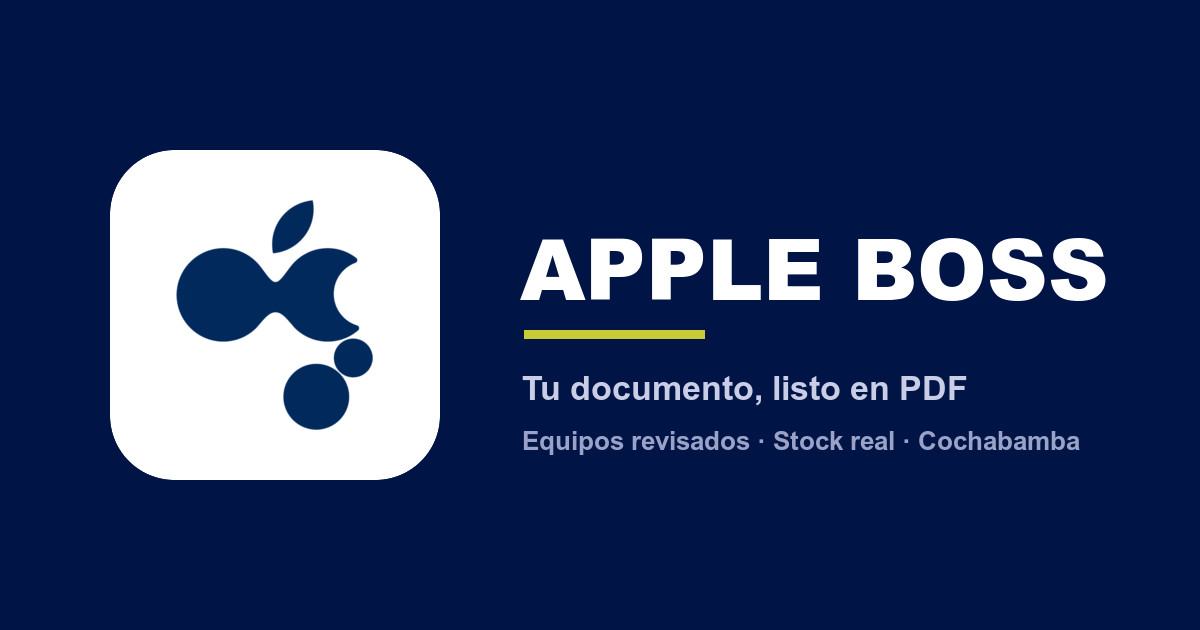
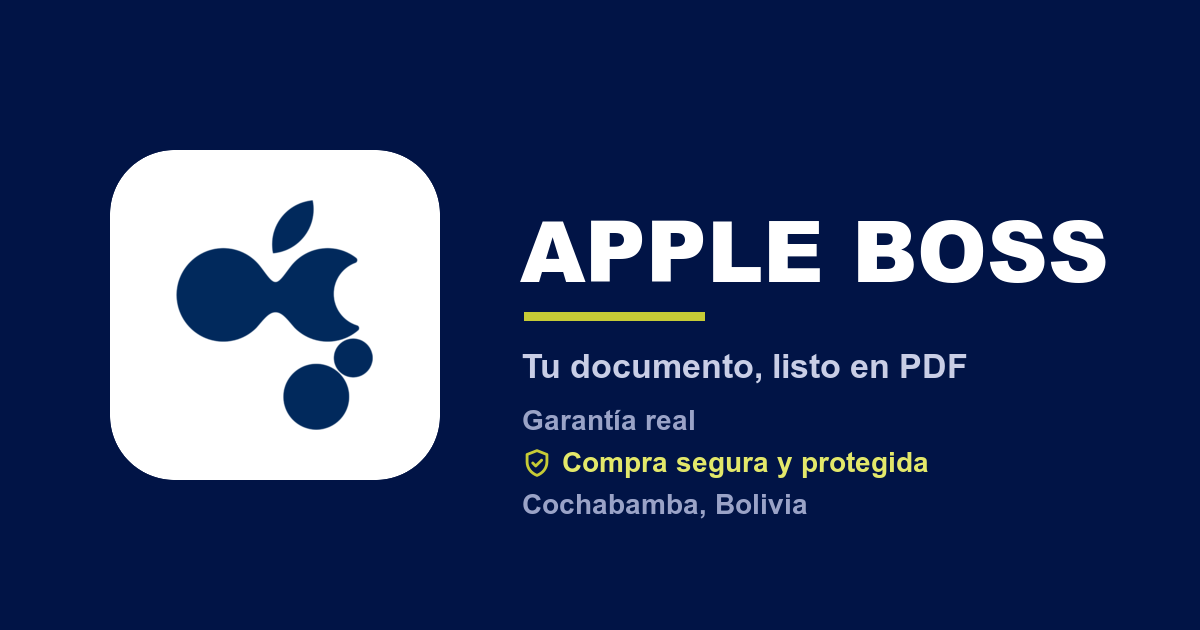
feat(marca): lema «Garantía real · Compra segura y protegida · Cochabamba, Bolivia» en toda la tienda
- Un solo lugar (config seo.negocio.lema, en tres partes): barra de anuncio, pie de la tienda, cabecera de los
  correos, página de documentos, tarjeta de WhatsApp y slogan del JSON-LD. «Compra segura y protegida» lleva el
  escudo de seguridad: SVG en la web y escudo.png en los correos (Gmail no muestra SVG).
- Las descripciones cuentan lo que distingue a la tienda: buen precio, asesoría en cada paso y una postventa que
  responde (portada, Google, Nosotros, categoría iPhone y la franja de confianza del inicio).
- Migración lema_de_la_tienda: cambia solo los textos que siguen con el valor de fábrica; reversible.
- LemaDeLaTiendaTest: el lema llega a la tienda, los correos y Google, y el genérico no vuelve al código.

Changed region(s): [[0.4317, 0.3317, 0.925, 0.754], [0.4317, 0.7841, 0.6783, 0.8143]]

diff --git a/src/resources/js/Layouts/StoreLayout.jsx b/src/resources/js/Layouts/StoreLayout.jsx
@@ -1,5 +1,5 @@
 import { Link, router, usePage } from '@inertiajs/react';
-import { Check, ChevronDown, ChevronRight, Exchange, GitCompare, Mail, Menu, Search, ShoppingBag, Trash2, Wrench, X } from '@/Components/Store/Icons';
+import { Check, ChevronDown, ChevronRight, Exchange, GitCompare, Mail, Menu, Search, ShieldCheck, ShoppingBag, Trash2, Wrench, X } from '@/Components/Store/Icons';
 import { Fragment, createContext, useCallback, useContext, useEffect, useMemo, useRef, useState } from 'react';
 import ProductVisual from '@/Components/Store/ProductVisual';
 import SearchOverlay from '@/Components/Store/SearchOverlay';
@@ -906,7 +906,19 @@ function StoreFooter({ abrirAcceso }) {
                 {/* En el celular, todo centrado y la firma al final; en la computadora, una línea con la firma a la derecha */}
                 <StoreContainer className="flex flex-col items-center gap-2 py-3 text-center text-xs font-medium text-white lg:flex-row lg:justify-between lg:gap-6 lg:text-left">
                     <span>Copyright © {year} {nombre} · Todos los derechos reservados</span>
-                    <span>Equipos revisados · Precios reales · Atención personalizada</span>
+                    {Array.isArray(tienda?.lema) && (
+                        <span className="inline-flex flex-wrap items-center justify-center gap-x-2 gap-y-1">
+                            {tienda.lema.map((parte, i) => (
+                                <Fragment key={parte.texto}>
+                                    {i > 0 && <span aria-hidden="true">·</span>}
+                                    <span className="inline-flex items-center gap-1">
+                                        {parte.escudo && <ShieldCheck size={14} strokeWidth={2} color="#C6CB36" aria-hidden="true" />}
+                                        {parte.texto}
+                                    </span>
+                                </Fragment>
+                            ))}
+                        </span>
+                    )}
                     <CreditoBurrow />
                 </StoreContainer>
             </div>

diff --git a/src/resources/js/Pages/Store/Home.jsx b/src/resources/js/Pages/Store/Home.jsx
@@ -1,7 +1,7 @@
 import { Head, Link, usePage } from '@inertiajs/react';
 import {
     ArrowRight, BadgeCheck, ChevronDown, Exchange,
-    MapPin, MessageCircle, Scan, ShieldCheck, Smartphone, Watch,
+    MapPin, MessageCircle, Scan, ShieldCheck, Smartphone, Watch, Wrench,
 } from '@/Components/Store/Icons';
 import { useState } from 'react';
 import { motion } from 'framer-motion';
@@ -80,8 +80,9 @@ function TrustBar() {
     return (
         <TrustMarquee items={[
             { icon: ShieldCheck,   text: 'Revisados antes de entregarte' },
-            { icon: MessageCircle, text: 'Atención directa, sin bots' },
-            { icon: BadgeCheck,    text: 'Precios reales, sin letra chica' },
+            { icon: BadgeCheck,    text: 'Buen precio, sin letra chica' },
+            { icon: MessageCircle, text: 'Te asesoramos en cada paso, sin bots' },
+            { icon: Wrench,        text: 'Postventa que responde después de la compra' },
             { icon: Scan,          text: 'Condición explícita en cada equipo' },
             { icon: Exchange,      text: 'Tu equipo actual como parte de pago' },
             // Solo con un local cargado en Tienda online → Ubicaciones

diff --git a/src/database/migrations/2026_10_19_200000_lema_de_la_tienda.php b/src/database/migrations/2026_10_19_200000_lema_de_la_tienda.php
@@ -1,0 +1,95 @@
+<?php
+
+use Illuminate\Database\Migrations\Migration;
+use Illuminate\Support\Facades\DB;
+
+/**
+ * El lema genérico («Equipos revisados · Stock real…», «Precios reales · Atención personalizada») deja paso al que eligió
+ * el dueño: «Garantía real · Compra segura y protegida · Cochabamba, Bolivia» (barra de anuncio). Las descripciones cuentan
+ * lo que distingue a la tienda: buen precio, asesoría en cada paso y una postventa que responde. Solo se cambia un texto
+ * que sigue exactamente como lo dejó la instalación o una migración: lo que el dueño editó en el panel queda como está.
+ */
+return new class extends Migration
+{
+    private const CAMBIOS = [
+        ['configuracion_tienda', 'valor', ['clave' => 'anuncio_barra'],
+            'Equipos revisados · Stock real · Atención en Bolivia',
+            'Garantía real · Compra segura y protegida · Cochabamba, Bolivia'],
+        ['configuracion_tienda', 'valor', ['clave' => 'seo_descripcion_default'],
+            'iPhone, Mac, iPad y accesorios Apple en Cochabamba, Bolivia. Equipos revisados y atención personalizada.',
+            'iPhone, Mac, iPad y accesorios Apple en Cochabamba, Bolivia. Buen precio, asesoría en cada paso y una postventa que responde.'],
+        ['seo_pages', 'description', [],
+            'iPhone, Mac, iPad y accesorios Apple disponibles en Cochabamba. Equipos revisados, precios reales, atención personalizada.',
+            'iPhone, Mac, iPad y accesorios Apple en Cochabamba a buen precio, con asesoría en cada paso y una postventa que responde cuando la necesitas.'],
+        ['pages', 'meta_description', ['slug' => 'nosotros'],
+            'Apple Boss: tienda de iPhone, Mac y accesorios nuevos y seminuevos en Cochabamba, con equipos revisados, stock real, garantía propia y servicio técnico.',
+            'Apple Boss: iPhone, Mac y accesorios nuevos y seminuevos en Cochabamba a buen precio, con asesoría en cada paso, garantía propia y una postventa que responde.'],
+        ['catalog_categories', 'description', ['slug' => 'celulares'],
+            'Equipos revisados y disponibles.',
+            'iPhone nuevos y seminuevos, y un asesor para ayudarte a elegir el tuyo.'],
+        ['catalog_categories', 'meta_description', ['slug' => 'celulares'],
+            'iPhone nuevos y seminuevos disponibles en Cochabamba. Equipos revisados, condición real.',
+            'iPhone nuevos y seminuevos en Cochabamba a buen precio, con asesoría para elegir y una postventa que responde.'],
+        ['store_services', 'description', ['title' => 'Equipos revisados'],
+            'Todo equipo seminuevo pasa por revisión técnica antes de publicarse. Sin sorpresas.',
+            'Después de la compra seguimos contigo: te ayudamos a configurar tu equipo, respondemos tus dudas y atendemos la garantía en la tienda.'],
+        ['store_services', 'title', ['title' => 'Equipos revisados'],
+            'Equipos revisados',
+            'Postventa que responde'],
+    ];
+
+    public function up(): void
+    {
+        $this->aplicar(false);
+    }
+
+    public function down(): void
+    {
+        $this->aplicar(true);
+    }
+
+    private function aplicar(bool $alReves): void
+    {
+        foreach (self::CAMBIOS as [$tabla, $columna, $donde, $viejo, $nuevo]) {
+            [$de, $a] = $alReves ? [$nuevo, $viejo] : [$viejo, $nuevo];
+            if ($alReves && $donde === ['title' => 'Equipos revisados']) {
+                $donde = ['title' => 'Postventa que responde'];
+            }
+            DB::table($tabla)->where($donde)->where($columna, $de)->update([$columna => $a]);
+        }
+
+        // Nosotros: la lista «Cómo trabajamos» empieza por lo que distingue a la tienda; revisados y stock siguen como hechos
+        [$de, $a] = $alReves ? [$this->listaNueva(), $this->listaVieja()] : [$this->listaVieja(), $this->listaNueva()];
+        foreach (DB::table('pages')->where('slug', 'nosotros')->get(['id', 'content']) as $pagina) {
+            if (str_contains((string) $pagina->content, $de)) {
+                DB::table('pages')->where('id', $pagina->id)->update(['content' => str_replace($de, $a, $pagina->content), 'updated_at' => now()]);
+            }
+        }
+    }
+
+    private function listaVieja(): string
+    {
+        $meses = config('documentos.garantia.meses');
+
+        return <<<HTML
+<li><strong>Equipos revisados.</strong> Cada equipo pasa por nuestro servicio técnico antes de publicarse. En un seminuevo ves su estado y la salud de la batería antes de comprar.</li>
+<li><strong>Stock real.</strong> Lo que ves publicado está en la tienda hoy; lo que se vende deja de publicarse al instante. No vendemos lo que no tenemos.</li>
+<li><strong>Precios claros.</strong> En bolivianos, sin letra chica. Si pagas en USDT, el equivalente se calcula con el dólar paralelo del momento.</li>
+<li><strong>Garantía propia.</strong> {$meses['equipo_nuevo']} meses en equipos nuevos y {$meses['equipo_seminuevo']} en seminuevos, atendida en Cochabamba por nuestro servicio técnico. Léela completa en <a href="/paginas/garantia">Garantía</a>.</li>
+<li><strong>Atención directa.</strong> Nos escribes por WhatsApp y te responde la misma gente que te atiende en la tienda.</li>
+HTML;
+    }
+
+    private function listaNueva(): string
+    {
+        $meses = config('documentos.garantia.meses');
+
+        return <<<HTML
+<li><strong>Buen precio.</strong> En bolivianos y sin letra chica: el precio que ves es el que pagas. Si pagas en USDT, el equivalente se calcula con el dólar paralelo del momento.</li>
+<li><strong>Asesoría en cada paso.</strong> Antes de comprar te ayudamos a elegir el equipo que de verdad te conviene, sin presión. Nos escribes por WhatsApp y te responde la misma gente que te atiende en la tienda.</li>
+<li><strong>Postventa que responde.</strong> Después de la compra seguimos contigo: te ayudamos a configurar tu equipo, respondemos tus dudas y atendemos la garantía propia ({$meses['equipo_nuevo']} meses en equipos nuevos y {$meses['equipo_seminuevo']} en seminuevos) en Cochabamba, con nuestro servicio técnico. Léela completa en <a href="/paginas/garantia">Garantía</a>.</li>
+<li><strong>Equipos revisados.</strong> Cada equipo pasa por nuestro servicio técnico antes de publicarse. En un seminuevo ves su estado y la salud de la batería antes de comprar.</li>
+<li><strong>Lo publicado está en la tienda.</strong> Lo que se vende deja de publicarse al instante: no vendemos lo que no tenemos.</li>
+HTML;
+    }
+};

diff --git a/src/tests/Feature/LemaDeLaTiendaTest.php b/src/tests/Feature/LemaDeLaTiendaTest.php
@@ -1,0 +1,73 @@
+<?php
+
+namespace Tests\Feature;
+
+use App\Models\ConfiguracionTienda;
+use App\Models\Page;
+use Illuminate\Foundation\Testing\RefreshDatabase;
+use Illuminate\Support\Facades\DB;
+use Inertia\Testing\AssertableInertia as Assert;
+use Tests\TestCase;
+
+/** El lema de la tienda sale de un solo lugar (config seo.negocio.lema) y el genérico de antes no vuelve. */
+class LemaDeLaTiendaTest extends TestCase
+{
+    use RefreshDatabase;
+
+    private const VIEJOS = ['Precios reales · Atención personalizada', 'Stock real · Cochabamba', 'Stock real · Atención en Bolivia'];
+
+    public function test_el_lema_llega_a_la_tienda_los_correos_y_los_datos_para_google(): void
+    {
+        $lema = \App\Support\Seo::lema();
+        $this->assertSame('Garantía real · Compra segura y protegida · Cochabamba, Bolivia', $lema);
+
+        $this->get('/')->assertOk()->assertInertia(fn (Assert $p) => $p
+            ->where('tienda.lema.1.texto', 'Compra segura y protegida')
+            ->where('tienda.lema.1.escudo', true));
+        $this->get('/')->assertSee('"slogan":"' . $lema . '"', false);
+
+        $correo = (new \App\Mail\Bienvenida(new \App\Models\User(['name' => 'Ana Quispe', 'email' => 'ana@example.com'])))->render();
+        $this->assertStringContainsString('Compra segura y protegida', $correo);
+        $this->assertStringContainsString('images/correo/escudo.png', $correo, 'en el correo el escudo va en PNG: Gmail no muestra SVG');
+        $this->assertStringNotContainsString('<svg', $correo);
+    }
+
+    public function test_el_lema_generico_no_queda_en_el_codigo(): void
+    {
+        $restos = [];
+        foreach ([app_path(), resource_path('views'), resource_path('js'), config_path()] as $carpeta) {
+            foreach (new \RecursiveIteratorIterator(new \RecursiveDirectoryIterator($carpeta)) as $f) {
+                if ($f->isFile() && preg_match('/\.(php|jsx?|blade\.php)$/', $f->getFilename())) {
+                    foreach (self::VIEJOS as $viejo) {
+                        if (str_contains(file_get_contents($f->getPathname()), $viejo)) {
+                            $restos[] = $f->getFilename() . ' → ' . $viejo;
+                        }
+                    }
+                }
+            }
+        }
+        $this->assertSame([], $restos);
+    }
+
+    public function test_la_migracion_cambia_los_textos_de_fabrica_y_respeta_los_editados(): void
+    {
+        $migracion = include database_path('migrations/2026_10_19_200000_lema_de_la_tienda.php');
+
+        DB::table('configuracion_tienda')->updateOrInsert(['clave' => 'anuncio_barra'], ['valor' => 'Equipos revisados · Stock real · Atención en Bolivia']);
+        DB::table('configuracion_tienda')->updateOrInsert(['clave' => 'seo_descripcion_default'], ['valor' => 'Mi descripción escrita a mano']);
+        $migracion->up();
+        \Illuminate\Support\Facades\Cache::flush();
+
+        $this->assertSame('Garantía real · Compra segura y protegida · Cochabamba, Bolivia', ConfiguracionTienda::get('anuncio_barra'));
+        $this->assertSame('Mi descripción escrita a mano', ConfiguracionTienda::get('seo_descripcion_default'), 'lo editado en el panel no se toca');
+        $this->assertLessThanOrEqual(90, mb_strlen(ConfiguracionTienda::get('anuncio_barra')), 'la barra de anuncio admite 90 caracteres');
+
+        $nosotros = (string) Page::where('slug', 'nosotros')->value('content');
+        $this->assertStringContainsString('<strong>Postventa que responde.</strong>', $nosotros);
+        $this->assertStringContainsString('<strong>Asesoría en cada paso.</strong>', $nosotros);
+
+        $migracion->down();
+        $this->assertSame('Equipos revisados · Stock real · Atención en Bolivia', DB::table('configuracion_tienda')->where('clave', 'anuncio_barra')->value('valor'));
+        $this->assertStringContainsString('<strong>Stock real.</strong>', (string) Page::where('slug', 'nosotros')->value('content'));
+    }
+}

diff --git a/src/app/Support/Seo.php b/src/app/Support/Seo.php
@@ -21,9 +21,15 @@ use Illuminate\Support\Str;
  */
 class Seo
 {
+    /** El lema en una línea: «Garantía real · Compra segura y protegida · Cochabamba, Bolivia». */
+    public static function lema(): string
+    {
+        return implode(' · ', array_column((array) config('seo.negocio.lema'), 'texto'));
+    }
+
     /** Valores por defecto (español de Bolivia, sin afirmaciones no verificadas). */
     public const DEFAULTS = [
-        'store.home'            => ['title' => 'Apple Boss — Tecnología Apple en Cochabamba', 'description' => 'iPhone, Mac, iPad y accesorios Apple disponibles en Cochabamba. Equipos revisados, precios reales, atención personalizada.'],
+        'store.home'            => ['title' => 'Apple Boss — Tecnología Apple en Cochabamba', 'description' => 'iPhone, Mac, iPad y accesorios Apple en Cochabamba a buen precio, con asesoría en cada paso y una postventa que responde cuando la necesitas.'],
         'store.catalog'         => ['title' => 'Catálogo — Apple Boss Cochabamba', 'description' => 'Catálogo de equipos Apple disponibles en Apple Boss Cochabamba: iPhone, Mac, iPad, accesorios y fundas MYSKIN.'],
         'hub.iphone'            => ['title' => 'iPhone — Apple Boss Cochabamba', 'description' => 'Compra tu iPhone en Apple Boss. Equipos nuevos y seminuevos, revisados antes de la entrega. Cochabamba, Bolivia.'],
         'hub.mac'               => ['title' => 'Mac — Apple Boss Cochabamba', 'description' => 'MacBook y Mac en Apple Boss. Nuevas y seminuevas. Cochabamba, Bolivia.'],

diff --git a/src/config/seo.php b/src/config/seo.php
@@ -19,7 +19,15 @@ return [
     'negocio' => [
         'nombre'      => env('SEO_NEGOCIO_NOMBRE', 'Apple Boss'),
         'tipo'        => 'Store',                       // schema.org/Store
-        'descripcion' => 'Venta de equipos Apple nuevos y seminuevos, accesorios y servicio técnico en Cochabamba, Bolivia.',
+        'descripcion' => 'Equipos Apple nuevos y seminuevos, accesorios y servicio técnico en Cochabamba, Bolivia: buen precio, asesoría en cada paso y una postventa que responde.',
+        // El lema de la tienda, elegido por el dueño el 19-10-2026: barra de anuncio, pie de la tienda, cabecera de los correos,
+        // página de documentos, tarjeta de WhatsApp y slogan del JSON-LD. La parte con `escudo` lleva el ícono de seguridad
+        // (SVG en la web; escudo.png en los correos, porque Gmail no muestra SVG). En texto plano: App\Support\Seo::lema().
+        'lema' => [
+            ['texto' => 'Garantía real'],
+            ['texto' => 'Compra segura y protegida', 'escudo' => true],
+            ['texto' => 'Cochabamba, Bolivia'],
+        ],
         'telefono'    => env('SEO_NEGOCIO_TELEFONO'),   // se completa desde StoreLocation si existe
         'calle'       => env('SEO_NEGOCIO_CALLE'),
         'ciudad'      => env('SEO_NEGOCIO_CIUDAD', 'Cochabamba'),

diff --git a/src/database/seeders/StoreServiceSeeder.php b/src/database/seeders/StoreServiceSeeder.php
@@ -22,7 +22,7 @@ class StoreServiceSeeder extends Seeder
             ['icon' => 'wrench', 'title' => 'Servicio técnico', 'description' => 'Reparaciones de iPhone y Mac realizadas por técnicos con experiencia en equipos Apple.'],
             ['icon' => 'truck', 'title' => 'Envíos dentro de Bolivia', 'description' => 'Enviamos a nueve departamentos. El costo y el plazo se calculan en el checkout, con tu departamento, antes de que confirmes.'],
             ['icon' => 'chat', 'title' => 'Atención directa', 'description' => 'Te asesoramos por WhatsApp o en tienda para que elijas el equipo correcto.', 'accion' => 'whatsapp'],
-            ['icon' => 'badge', 'title' => 'Equipos revisados', 'description' => 'Todo equipo seminuevo pasa por revisión técnica antes de publicarse. Sin sorpresas.'],
+            ['icon' => 'badge', 'title' => 'Postventa que responde', 'description' => 'Después de la compra seguimos contigo: te ayudamos a configurar tu equipo, respondemos tus dudas y atendemos la garantía en la tienda.'],
         ];
 
         foreach ($services as $i => $service) {

diff --git a/src/resources/views/partials/lema.blade.php b/src/resources/views/partials/lema.blade.php
@@ -1,0 +1,11 @@
+{{--
+    El lema de la tienda (config seo.negocio.lema). La parte con `escudo` lleva el ícono de seguridad: en la web, el mismo
+    SVG que la tienda (ShieldCheck); en los correos, escudo.png, porque Gmail no muestra SVG.
+--}}
+@php($base = rtrim((string) config('seo.public_url', config('app.url')), '/'))
+@foreach ((array) config('seo.negocio.lema') as $parte)
+    @if (! $loop->first)<span aria-hidden="true"> · </span>@endif
+    @if (! empty($parte['escudo']))
+        @if ($svg)<svg viewBox="0 0 24 24" width="13" height="13" fill="none" stroke="#C6CB36" stroke-width="2" stroke-linecap="round" stroke-linejoin="round" aria-hidden="true" style="display:inline-block;vertical-align:-2px;margin-right:3px"><path d="M12 3.25l7 2.75v5.25c0 4.4-2.9 7.9-7 9.5-4.1-1.6-7-5.1-7-9.5V6l7-2.75z"/><path d="M9 12l2.1 2.1L15.25 10"/></svg>@else<img src="{{ $base }}/images/correo/escudo.png" width="13" height="13" alt="" style="display:inline-block;vertical-align:-2px;margin-right:3px;border:0;">@endif
+    @endif{{ $parte['texto'] }}
+@endforeach

diff --git a/src/database/seeders/CatalogCategorySeeder.php b/src/database/seeders/CatalogCategorySeeder.php
@@ -13,14 +13,14 @@ class CatalogCategorySeeder extends Seeder
             [
                 'name'            => 'iPhone',
                 'slug'            => 'celulares',
-                'description'     => 'Equipos revisados y disponibles.',
+                'description'     => 'iPhone nuevos y seminuevos, y un asesor para ayudarte a elegir el tuyo.',
                 'active'          => true,
                 'show_home'       => true,
                 'show_navigation' => true,
                 'is_myskin'       => false,
                 'sort_order'      => 1,
                 'meta_title'      => 'iPhone disponibles en Cochabamba — Apple Boss',
-                'meta_description' => 'iPhone nuevos y seminuevos disponibles en Cochabamba. Equipos revisados, condición real.',
+                'meta_description' => 'iPhone nuevos y seminuevos en Cochabamba a buen precio, con asesoría para elegir y una postventa que responde.',
             ],
             [
                 'name'            => 'Mac',

diff --git a/src/resources/views/documentos/publico.blade.php b/src/resources/views/documentos/publico.blade.php
@@ -33,7 +33,7 @@
     .marca{display:flex;align-items:center;gap:12px}
     .marca img{width:52px;height:52px;border-radius:14px;display:block}
     .marca b{display:block;font-size:19px;font-weight:900;letter-spacing:-.3px}
-    .marca span{display:block;margin-top:4px;font-size:12px;color:#9aa3c7}
+    .marca .lema{display:block;margin-top:5px;font-size:12px;line-height:1.5;color:#9aa3c7}
     .cuerpo{padding:26px}
     h1{margin:0 0 8px;font-size:23px;line-height:1.2;letter-spacing:-.3px;color:#011446}
     p{margin:0;font-size:15px;line-height:1.6;color:#475569}
@@ -52,7 +52,7 @@
     <div class="cabeza">
         <div class="marca">
             <img src="{{ $base }}/images/correo/logo-animado.gif" alt="Apple Boss" width="52" height="52">
-            <div><b>APPLE BOSS</b><span>Equipos revisados · Stock real · Cochabamba</span></div>
+            <div><b>APPLE BOSS</b><span class="lema">@include('partials.lema', ['svg' => true])</span></div>
         </div>
     </div>
     <div class="cuerpo">

diff --git a/src/app/Http/Controllers/PublicCatalogController.php b/src/app/Http/Controllers/PublicCatalogController.php
@@ -516,7 +516,7 @@ class PublicCatalogController extends Controller
         }
 
         return collect([
-            ['slug' => 'celulares',       'name' => 'iPhone',        'description' => 'Equipos revisados y disponibles.',           'is_myskin' => false],
+            ['slug' => 'celulares',       'name' => 'iPhone',        'description' => 'iPhone nuevos y seminuevos, y un asesor para ayudarte a elegir el tuyo.',           'is_myskin' => false],
             ['slug' => 'computadoras',    'name' => 'Mac',           'description' => 'Potencia para crear y trabajar.',            'is_myskin' => false],
             ['slug' => 'productos-apple', 'name' => 'Apple',         'description' => 'iPad, Watch, AirPods y más.',                'is_myskin' => false],
             ['slug' => 'fundas',          'name' => 'Fundas MYSKIN', 'description' => 'Protección con identidad propia.',           'is_myskin' => true],

diff --git a/src/resources/views/emails/layouts/marca.blade.php b/src/resources/views/emails/layouts/marca.blade.php
@@ -40,7 +40,7 @@
                     </td>
                     <td style="vertical-align:middle;padding-left:14px;">
                         <span style="display:block;color:#ffffff;font-size:22px;line-height:1;font-weight:900;letter-spacing:-0.4px;">APPLE BOSS</span>
-                        <span style="display:block;margin-top:7px;color:#9aa3c7;font-size:12px;letter-spacing:0.3px;">Equipos revisados · Stock real · Cochabamba</span>
+                        <span style="display:block;margin-top:7px;color:#9aa3c7;font-size:12px;letter-spacing:0.3px;">@include('partials.lema', ['svg' => false])</span>
                     </td>
                 </tr>
             </table>
